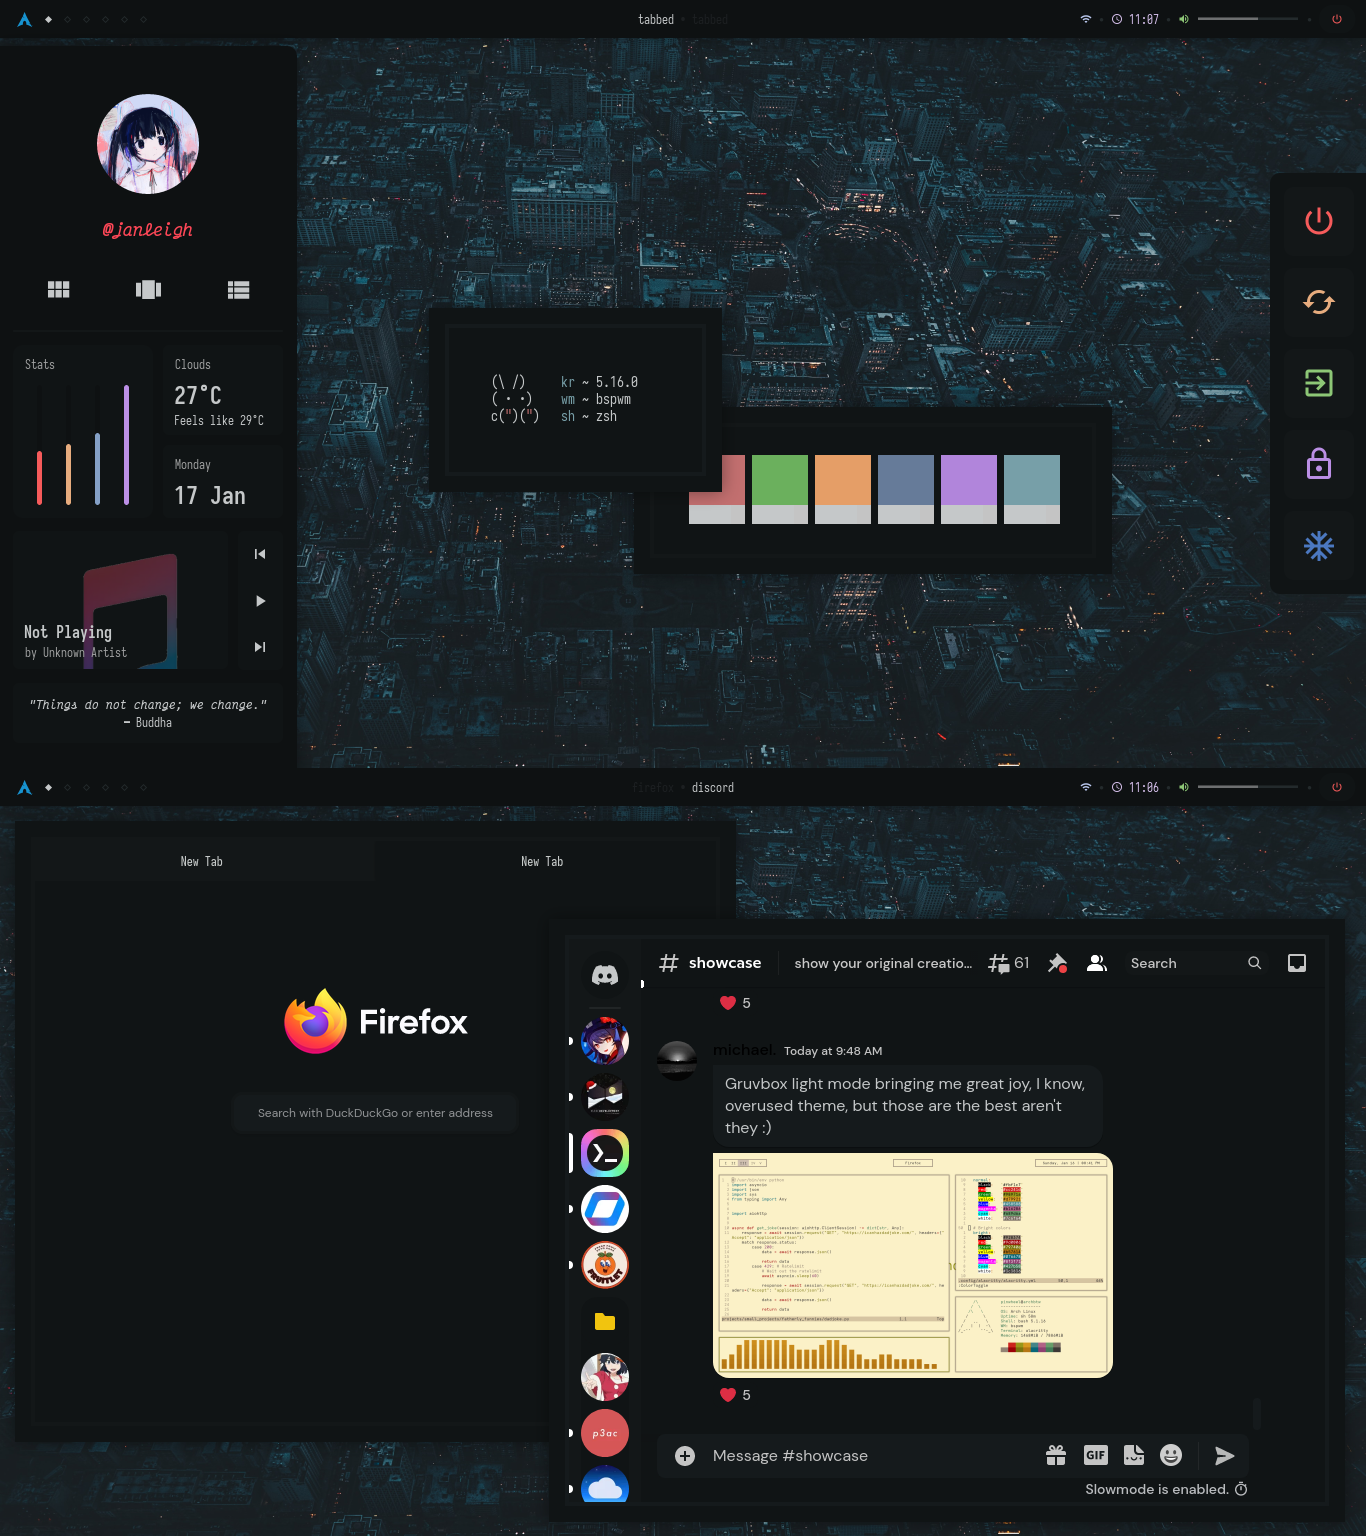
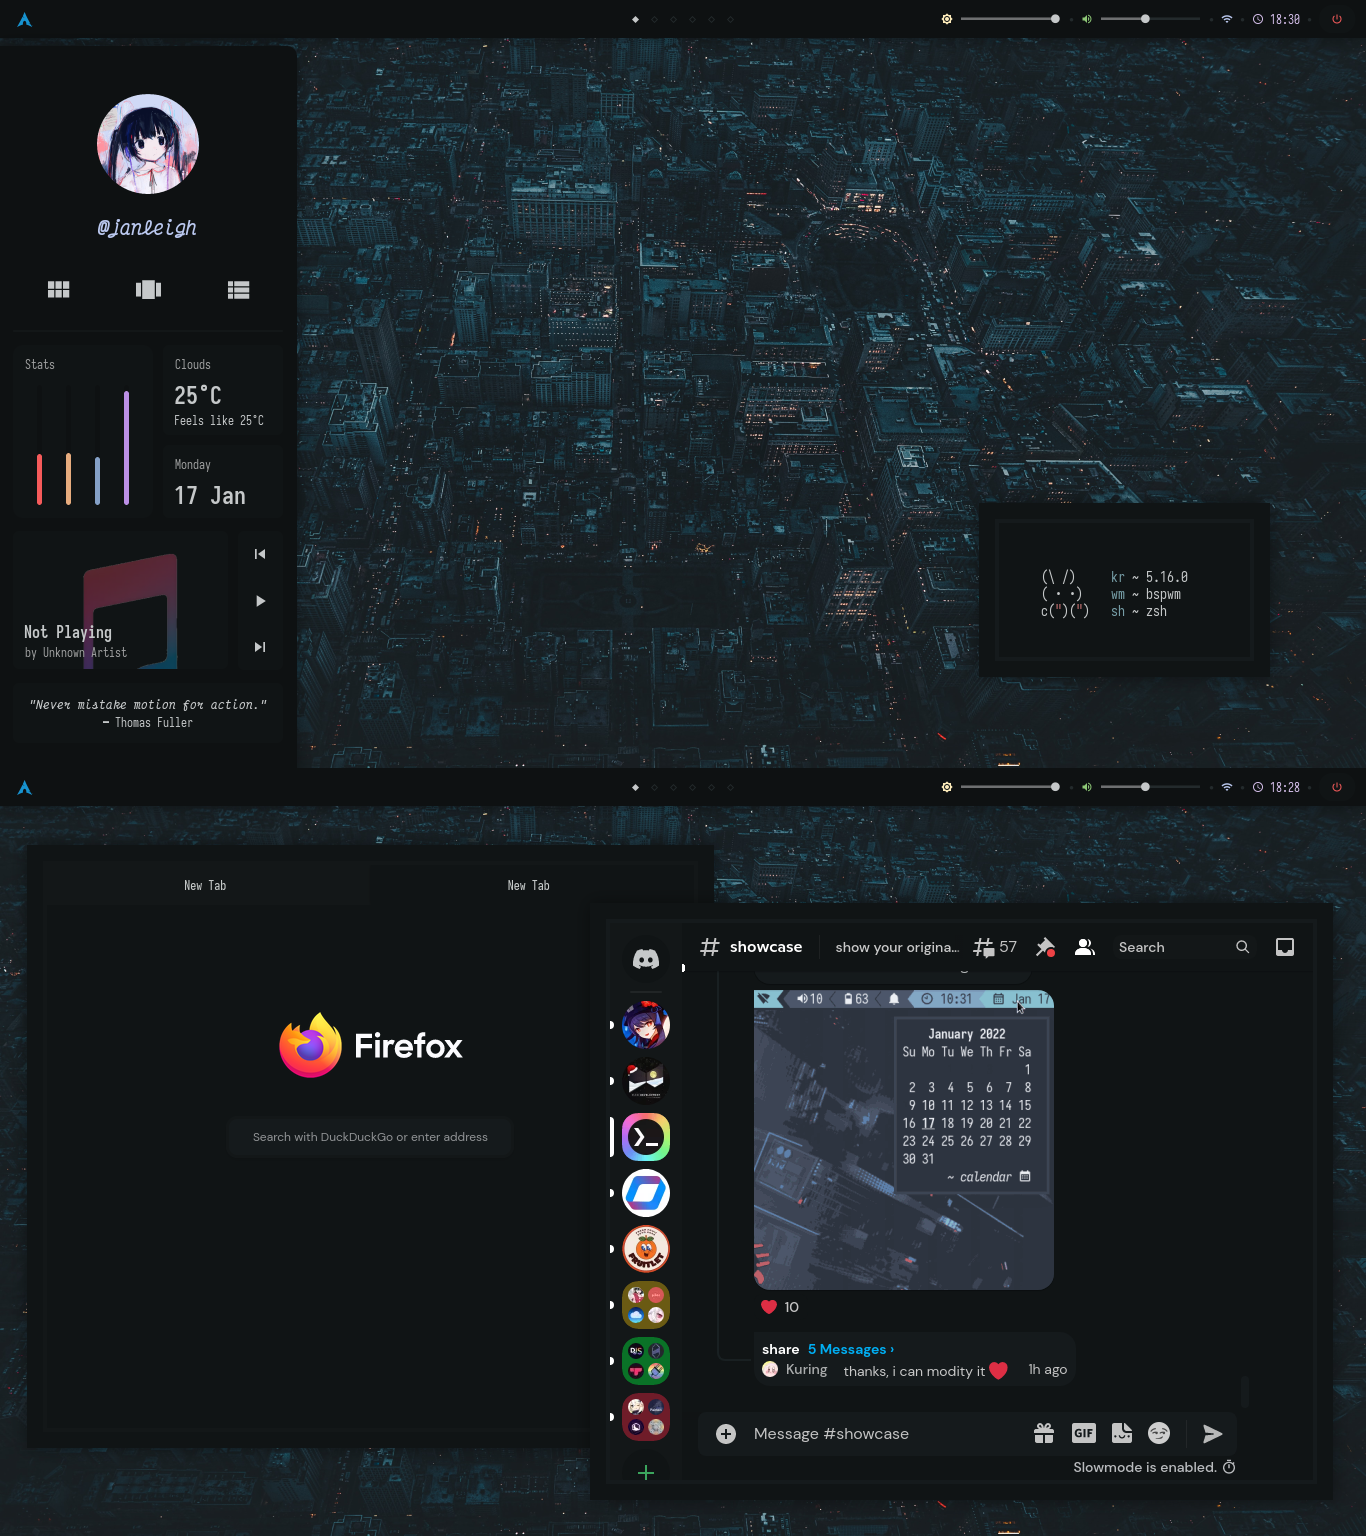
feat: more stuff

diff --git a/cfg/eww/src/scss/widgets/_profile.scss b/cfg/eww/src/scss/widgets/_profile.scss
@@ -11,12 +11,12 @@
 
     .text {
         .username {
-            color: $watermelon;
+            color: $javacafeBlue;
             font-family: "VictorMono Nerd Font";
             font-style: italic;
-            font-size: 18px;
+            font-size: 20px;
 
-            margin-top: -69px; // Haha funny number
+            margin-top: -6rem;
         }
     }
 }

diff --git a/README.md b/README.md
@@ -13,6 +13,7 @@
    <a href="https://discord.gg/2RfJb3CVfb">
       <img src="https://img.shields.io/discord/853812920919261235?color=bb8fe5&labelColor=101415&style=for-the-badge"/>
    </a>
+   <br>
 </div>
 
 <p/>
